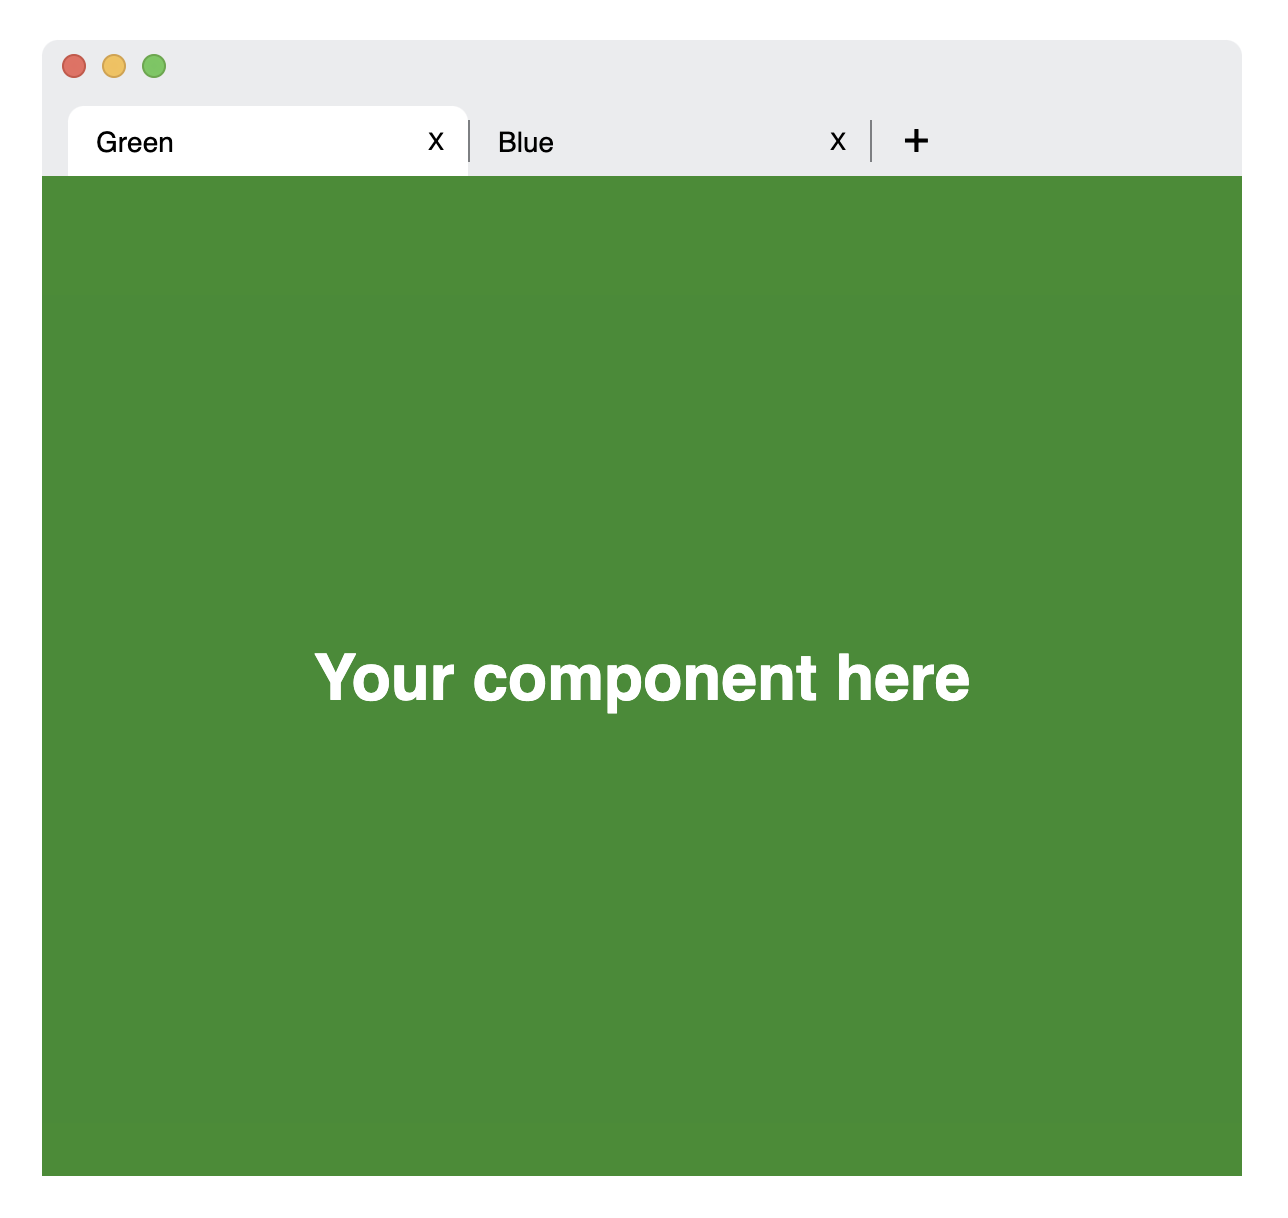
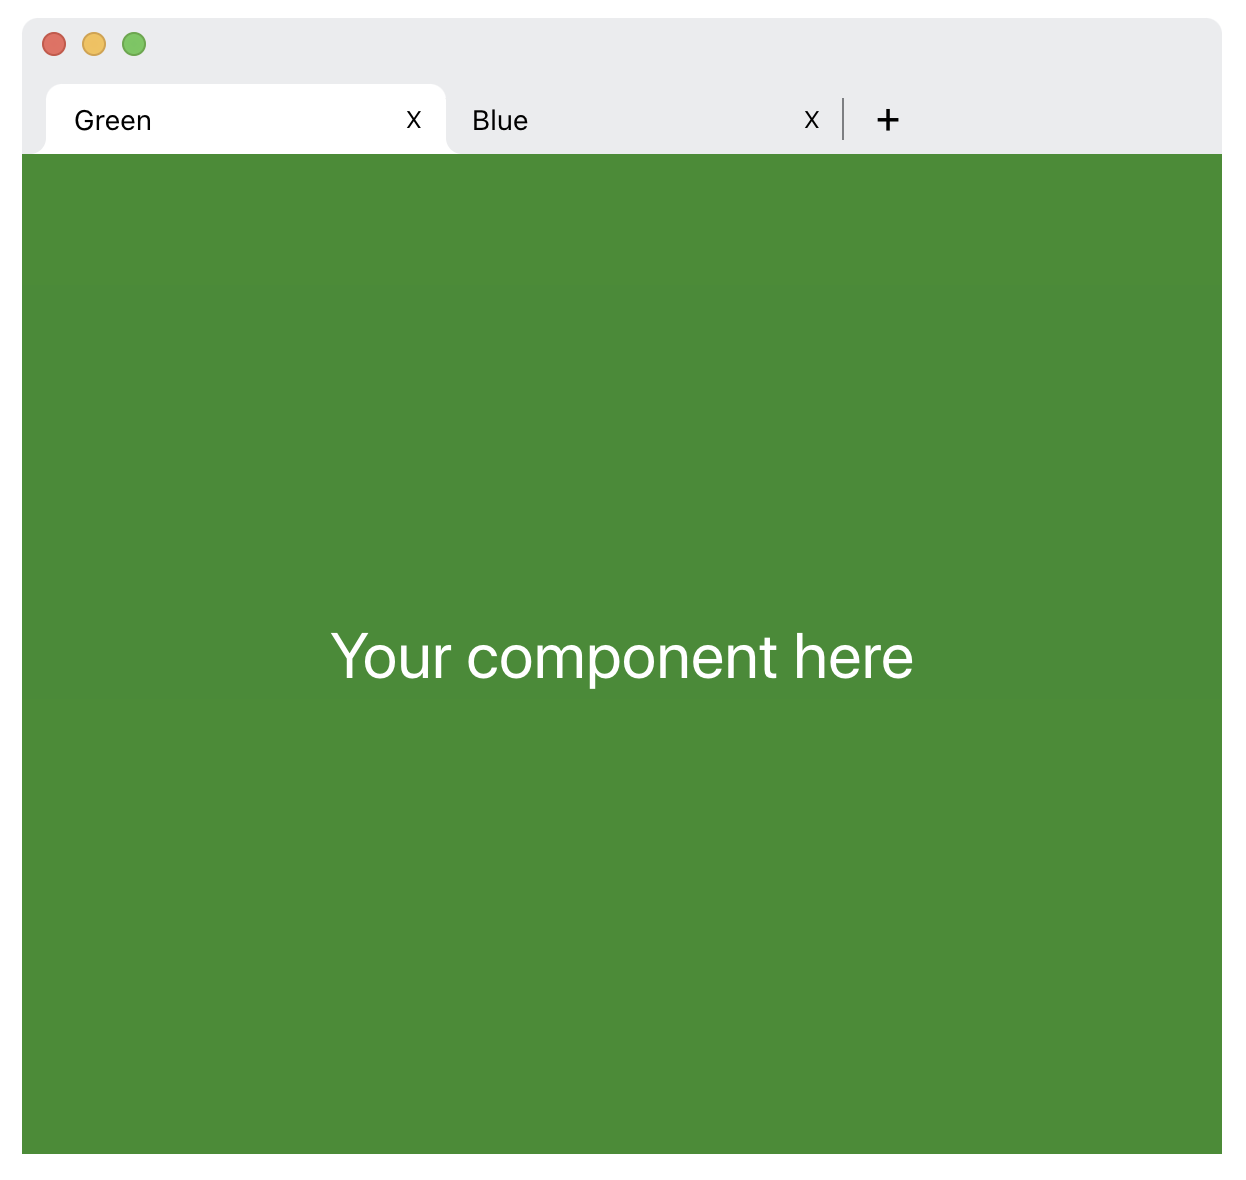
docs(readme): add updated chrome images

Changed region(s): [[0.0, 0.0915, 1.0, 0.9763], [0.244, 0.5186, 0.7624, 0.5797], [0.0305, 0.0305, 0.1525, 0.061]]

diff --git a/README.md b/README.md
@@ -8,7 +8,7 @@
 
 Chrome (showHeader = true)  | Chrome (showHeader = false) 
 :-------------------------:|:-------------------------:
-![Browser ui example 1](./img/example04.png) | ![Browser ui example 2](./img/example03.png) 
+![Browser ui example 1](./img/example02.png) | ![Browser ui example 2](./img/example01.png) 
  Firefox (showHeader = true) | Firefox (showHeader = false)
 ![Browser ui example 4](./img/example06.png) | ![Browser ui example 3](./img/example05.png)
 ## Install
